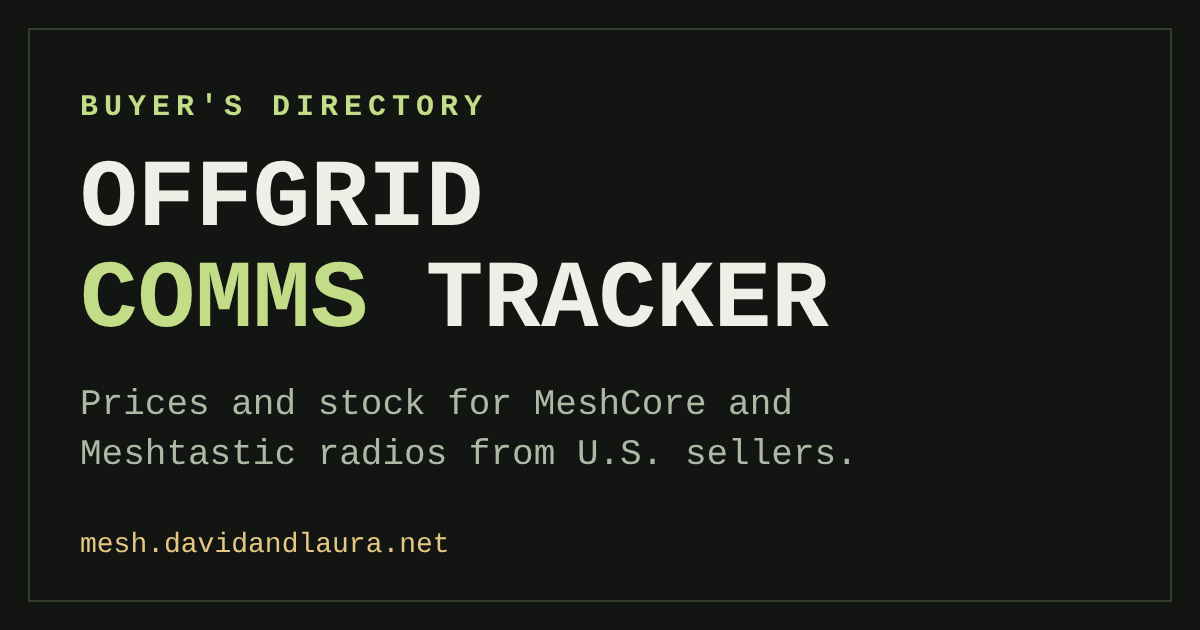
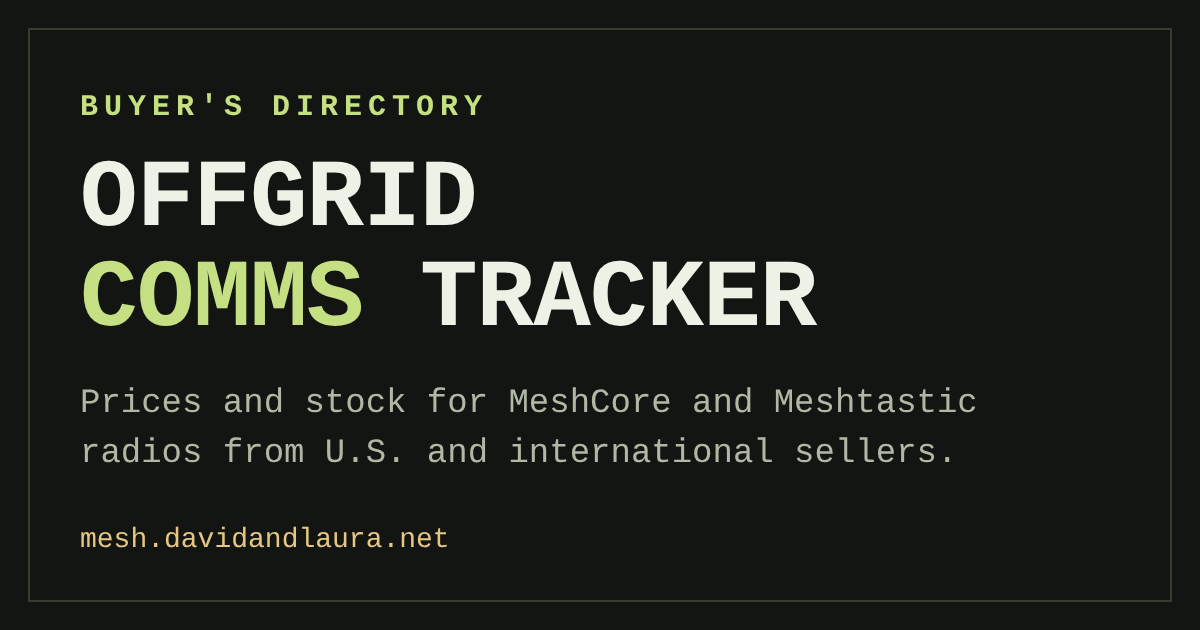
Update hero and share wording now that Seeed (U.S., EU, China) is listed
- Hero eyebrow and intro no longer say U.S.-only; intro mentions where each radio ships from
- Page, social and RSS descriptions say U.S. and international sellers
- Seller count tile drops 'U.S.'
- Regenerated the social share image with the new wording

Claude-Session: https://claude.ai/code/session_01FPedHt8S5fGjvXQcV74eDi

diff --git a/index.html b/index.html
@@ -3,26 +3,26 @@
 <head>
   <meta charset="utf-8">
   <meta name="viewport" content="width=device-width,initial-scale=1">
-  <meta name="description" content="Compare prices and stock for MeshCore and Meshtastic radios from U.S. sellers.">
+  <meta name="description" content="Compare prices and stock for MeshCore and Meshtastic radios from U.S. and international sellers.">
   <meta name="theme-color" content="#121511">
   <link rel="canonical" href="https://mesh.davidandlaura.net/">
   <meta property="og:type" content="website">
   <meta property="og:site_name" content="Offgrid Comms Tracker">
   <meta property="og:title" content="Offgrid Comms Tracker">
-  <meta property="og:description" content="Compare prices and stock for MeshCore and Meshtastic radios from U.S. sellers.">
+  <meta property="og:description" content="Compare prices and stock for MeshCore and Meshtastic radios from U.S. and international sellers.">
   <meta property="og:url" content="https://mesh.davidandlaura.net/">
-  <meta property="og:image" content="https://mesh.davidandlaura.net/assets/og-image.png">
+  <meta property="og:image" content="https://mesh.davidandlaura.net/assets/og-image.png?v=20261124-inventory">
   <meta property="og:image:width" content="1200">
   <meta property="og:image:height" content="630">
-  <meta property="og:image:alt" content="Offgrid Comms Tracker: prices and stock for MeshCore and Meshtastic radios from U.S. sellers">
+  <meta property="og:image:alt" content="Offgrid Comms Tracker: prices and stock for MeshCore and Meshtastic radios from U.S. and international sellers">
   <meta name="twitter:card" content="summary_large_image">
   <meta name="twitter:title" content="Offgrid Comms Tracker">
-  <meta name="twitter:description" content="Compare prices and stock for MeshCore and Meshtastic radios from U.S. sellers.">
-  <meta name="twitter:image" content="https://mesh.davidandlaura.net/assets/og-image.png">
+  <meta name="twitter:description" content="Compare prices and stock for MeshCore and Meshtastic radios from U.S. and international sellers.">
+  <meta name="twitter:image" content="https://mesh.davidandlaura.net/assets/og-image.png?v=20261124-inventory">
   <title>Offgrid Comms Tracker</title>
   <link rel="alternate" type="application/rss+xml" title="Stock and price changes" href="feed.php">
-  <link rel="stylesheet" href="assets/styles.css?v=20261124-credit">
-  <script src="assets/catalog.js?v=20261124-seeed" defer></script>
+  <link rel="stylesheet" href="assets/styles.css?v=20261124-inventory">
+  <script src="assets/catalog.js?v=20261124-inventory" defer></script>
 </head>
 <body>
   <a class="skip" href="#inventory">Skip to listings</a>
@@ -36,9 +36,9 @@
     <section class="hero">
       <div class="wrap hero-inner">
         <div class="hero-copy">
-          <p class="eyebrow"><span></span> U.S. RADIO INVENTORY</p>
+          <p class="eyebrow"><span></span> MESHCORE + MESHTASTIC RADIO INVENTORY</p>
           <h1>OFFGRID COMMS<br><em>TRACKER</em></h1>
-          <p class="lede">Find MeshCore and Meshtastic radios from U.S. sellers. Compare stock, price, and the setup each radio needs.</p>
+          <p class="lede">Find MeshCore and Meshtastic radios from U.S. and international sellers. Compare stock, price, where each one ships from, and the setup it needs.</p>
           <div class="hero-actions">
             <a class="primary" href="#inventory">Browse radios</a>
             <a class="quiet" href="#notoryx-tools">MESH tools</a>

diff --git a/assets/catalog.js b/assets/catalog.js
@@ -365,7 +365,7 @@ async function refresh() {
     byId('total').textContent = rows.length;
     byId('available').textContent = rows.filter((row) => displayStatus(row) === 'in_stock').length;
     byId('orderable').textContent = rows.filter((row) => displayStatus(row) === 'orderable').length;
-    byId('sellers').textContent = 'from ' + new Set(rows.map((row) => row.seller)).size + ' U.S. sellers';
+    byId('sellers').textContent = 'from ' + new Set(rows.map((row) => row.seller)).size + ' sellers';
     const readings = rows.map((row) => Date.parse(row.result.observed_at || '')).filter(Number.isFinite);
     latestReading = previewSource || !readings.length ? null : Math.max(...readings);
     showLatest();

diff --git a/feed.php b/feed.php
@@ -40,7 +40,7 @@ echo '<?xml version="1.0" encoding="UTF-8"?>' . "\n";
 <rss version="2.0"><channel>
 <title>Offgrid Comms Tracker: stock and price changes</title>
 <link><?= xml($site) ?></link>
-<description>Back-in-stock alerts, sell-outs and price changes for MeshCore and Meshtastic radios from U.S. sellers.</description>
+<description>Back-in-stock alerts, sell-outs and price changes for MeshCore and Meshtastic radios from U.S. and international sellers.</description>
 <?php foreach ($entries as $event): ?>
 <item>
 <title><?= xml(event_text($event)) ?></title>
